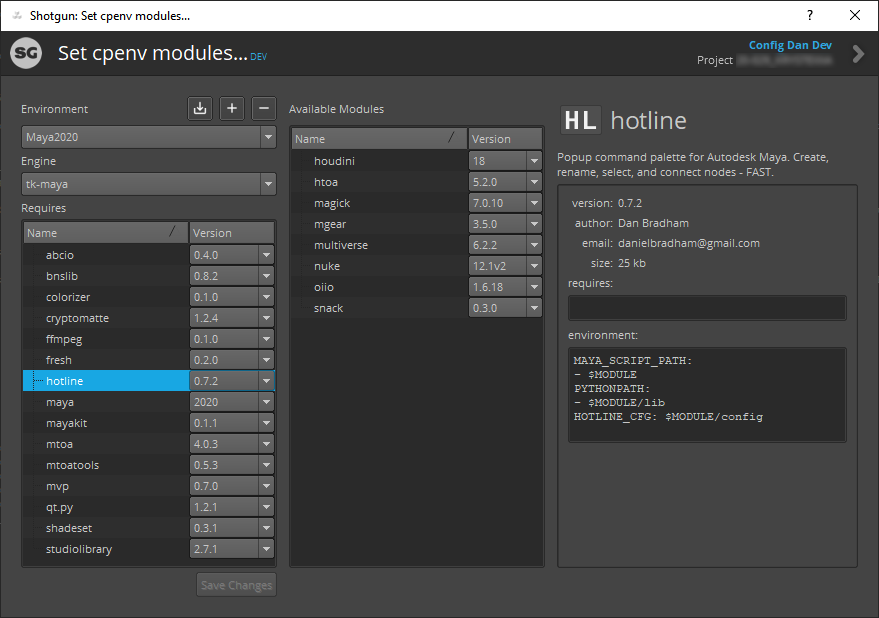
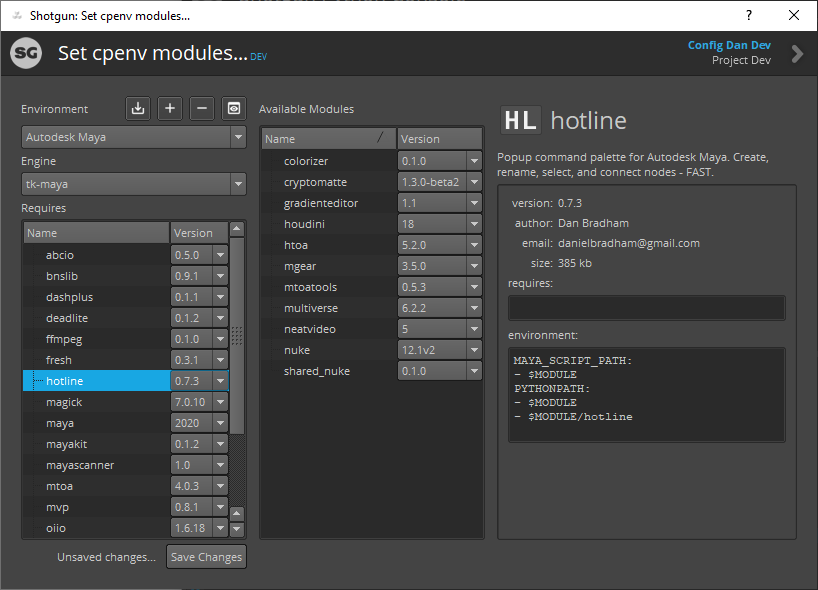
add: Preview Environment tool

Changed region(s): [[0.0, 0.1525, 0.978, 0.9763], [0.0, 0.0, 1.0, 0.122], [0.0, 0.9763, 0.0306, 1.0]]

diff --git a/python/cpenv_ui/module_selector.py b/python/cpenv_ui/module_selector.py
@@ -15,6 +15,7 @@ from sgtk.platform.qt import QtCore, QtGui
 # Local imports
 from .dialogs import ErrorDialog
 from .env_importer import EnvImporter
+from .env_display import EnvDisplay
 from .module_list import ModuleList
 from .module_info import ModuleInfo
 from . import res
@@ -93,11 +94,16 @@ class ModuleSelector(QtGui.QWidget):
             icon=QtGui.QIcon(res.get_path('remove.png'))
         )
         self.env_remove.setToolTip('Delete current environment.')
+        self.env_preview = QtGui.QToolButton(
+            icon=QtGui.QIcon(res.get_path('preview.png'))
+        )
+        self.env_preview.setToolTip('Preview combined environment variables.')
         self.env_header = QtGui.QHBoxLayout()
         self.env_header.addWidget(self.env_label)
         self.env_header.addWidget(self.env_import)
         self.env_header.addWidget(self.env_add)
         self.env_header.addWidget(self.env_remove)
+        self.env_header.addWidget(self.env_preview)
 
         self.engine_label = QtGui.QLabel('Engine')
         self.engine_label.setToolTip(
@@ -171,6 +177,7 @@ class ModuleSelector(QtGui.QWidget):
         self.env_import.clicked.connect(self.on_env_import_clicked)
         self.env_add.clicked.connect(self.on_env_add_clicked)
         self.env_remove.clicked.connect(self.on_env_remove_clicked)
+        self.env_preview.clicked.connect(self.on_env_preview_clicked)
         self.env_list.activated.connect(self.on_env_changed)
 
         # Update initial state from app context
@@ -326,6 +333,58 @@ class ModuleSelector(QtGui.QWidget):
                 self.module_info.set_module_spec(spec)
         else:
             self.module_info.clear_module_spec()
+
+    def on_env_preview_clicked(self):
+        '''In order to preview an environment we need to take the same steps
+        cpenv takes when combining module environments during activation, but,
+        we must do so without having the module localized.
+
+        TODO: Because of how complex it is to build the environment preview, I
+              feel that this aspect of cpenv may need to be refactored.
+        '''
+        env = self.state['environment']
+        home_path = app.cpenv.get_home_modules_path()
+        platform = app.cpenv.compat.platform
+        pyver = sys.version[:3]
+        yaml = app.cpenv.vendor.yaml
+        mappings = app.cpenv.mappings
+
+        module_envs = []
+        for spec_set in self.state['selected'].values():
+            spec = spec_set.selection
+            config_vars = {
+                'MODULE': '/'.join([home_path, spec.qual_name]),
+                'PLATFORM': platform,
+                'PYVER': pyver,
+            }
+            # 1. read environment from Module entity
+            module_env = spec.repo.get_data(spec)['environment']
+            # 2. Dump to string
+            module_env = yaml.safe_dump(module_env)
+            # 3. Substitute config variables
+            module_env = Template(module_env).safe_substitute(config_vars)
+            # 4. Load as dict
+            module_env = yaml.safe_load(module_env)
+            # 5. Preprocess - extracts platform keys
+            module_env = mappings.preprocess_dict(module_env)
+
+            module_envs.append(module_env)
+
+        # Combine all module environments
+        preview_dict = mappings.join_dicts(*module_envs)
+        preview_env = mappings.dict_to_env(preview_dict)
+        preview_env = mappings.expand_envvars(preview_env)
+
+        try:
+            dialog = EnvDisplay(
+                title='Previewing Environment:  %s' % env['code'],
+                data=preview_env,
+                parent=self,
+            )
+            dialog.show()
+        except Exception:
+            app.info('HELLO')
+            app.exception('Error')
 
     def on_env_remove_clicked(self):
 

diff --git a/python/cpenv_ui/env_tree.py b/python/cpenv_ui/env_tree.py
@@ -1,0 +1,79 @@
+# -*- coding: utf-8 -*-
+from __future__ import print_function
+
+# Standard library imports
+import os
+
+# Shotgun imports
+from sgtk.platform.qt import QtCore, QtGui
+
+# PySide1 compat
+try:
+    QtGui.QHeaderView.setSectionResizeMode
+except AttributeError:
+    QtGui.QHeaderView.setSectionResizeMode = QtGui.QHeaderView.setResizeMode
+
+# Tree Columns
+Key = 0
+Value = 1
+
+
+class EnvTree(QtGui.QTreeWidget):
+
+    def __init__(self, name, data, parent=None):
+        super(EnvTree, self).__init__(parent=parent)
+
+        self.setObjectName(name)
+        self.setSortingEnabled(True)
+        self.setAlternatingRowColors(True)
+        self.setMinimumWidth(200)
+        self.setFocusPolicy(QtCore.Qt.NoFocus)
+        self.setSizePolicy(
+            QtGui.QSizePolicy.Expanding,
+            QtGui.QSizePolicy.Expanding,
+        )
+
+        # Setup header
+        self.setHeaderLabels(['Key', 'Value'])
+        header = self.header()
+        header.setSectionResizeMode(header.ResizeToContents)
+        header.setStretchLastSection(False)
+        header.setSectionResizeMode(Value, header.Stretch)
+
+        self.set_data(data)
+
+    def set_data(self, data):
+        self.clear()
+        self._data = {}
+        for k, v in sorted(data.items()):
+            self.set(k, v)
+
+    def set(self, key, value):
+        self._data[key] = value
+        if os.pathsep in value:
+            parent = QtGui.QTreeWidgetItem(parent=self)
+            parent.setText(Key, key)
+            self.addTopLevelItem(parent)
+
+            for value in value.split(os.pathsep):
+                child = QtGui.QTreeWidgetItem()
+                child.setText(Value, value)
+                parent.addChild(child)
+
+            parent.setExpanded(True)
+        elif isinstance(value, (list, tuple)):
+            parent = QtGui.QTreeWidgetItem(parent=self)
+            parent.setText(Key, key)
+            self.addTopLevelItem(parent)
+
+            for v in value:
+                child = QtGui.QTreeWidgetItem()
+                child.setText(Value, v)
+                parent.addChild(child)
+
+            parent.setExpanded(True)
+        else:
+            item = QtGui.QTreeWidgetItem(parent=self)
+            item.setText(Key, key)
+            item.setText(Value, value)
+            self.addTopLevelItem(item)

diff --git a/python/cpenv_ui/env_display.py b/python/cpenv_ui/env_display.py
@@ -1,0 +1,36 @@
+# -*- coding: utf-8 -*-
+from __future__ import print_function
+
+# Shotgun imports
+from sgtk.platform.qt import QtCore, QtGui
+
+# PySide1 compat
+try:
+    QtGui.QHeaderView.setSectionResizeMode
+except AttributeError:
+    QtGui.QHeaderView.setSectionResizeMode = QtGui.QHeaderView.setResizeMode
+
+# Local imports
+from .env_tree import EnvTree
+
+
+class EnvDisplay(QtGui.QDialog):
+
+    def __init__(self, title, data, parent=None):
+        super(EnvDisplay, self).__init__(parent=parent)
+
+        self.setWindowTitle(title)
+
+        self.tree = EnvTree('environ', data)
+        self.button = QtGui.QPushButton('Ok')
+        self.button.setSizePolicy(
+            QtGui.QSizePolicy.Maximum,
+            QtGui.QSizePolicy.Maximum,
+        )
+        self.button.clicked.connect(self.accept)
+
+        self.layout = QtGui.QVBoxLayout()
+        self.layout.addWidget(self.tree)
+        self.layout.addWidget(self.button)
+        self.layout.setAlignment(self.button, QtCore.Qt.AlignRight)
+        self.setLayout(self.layout)
